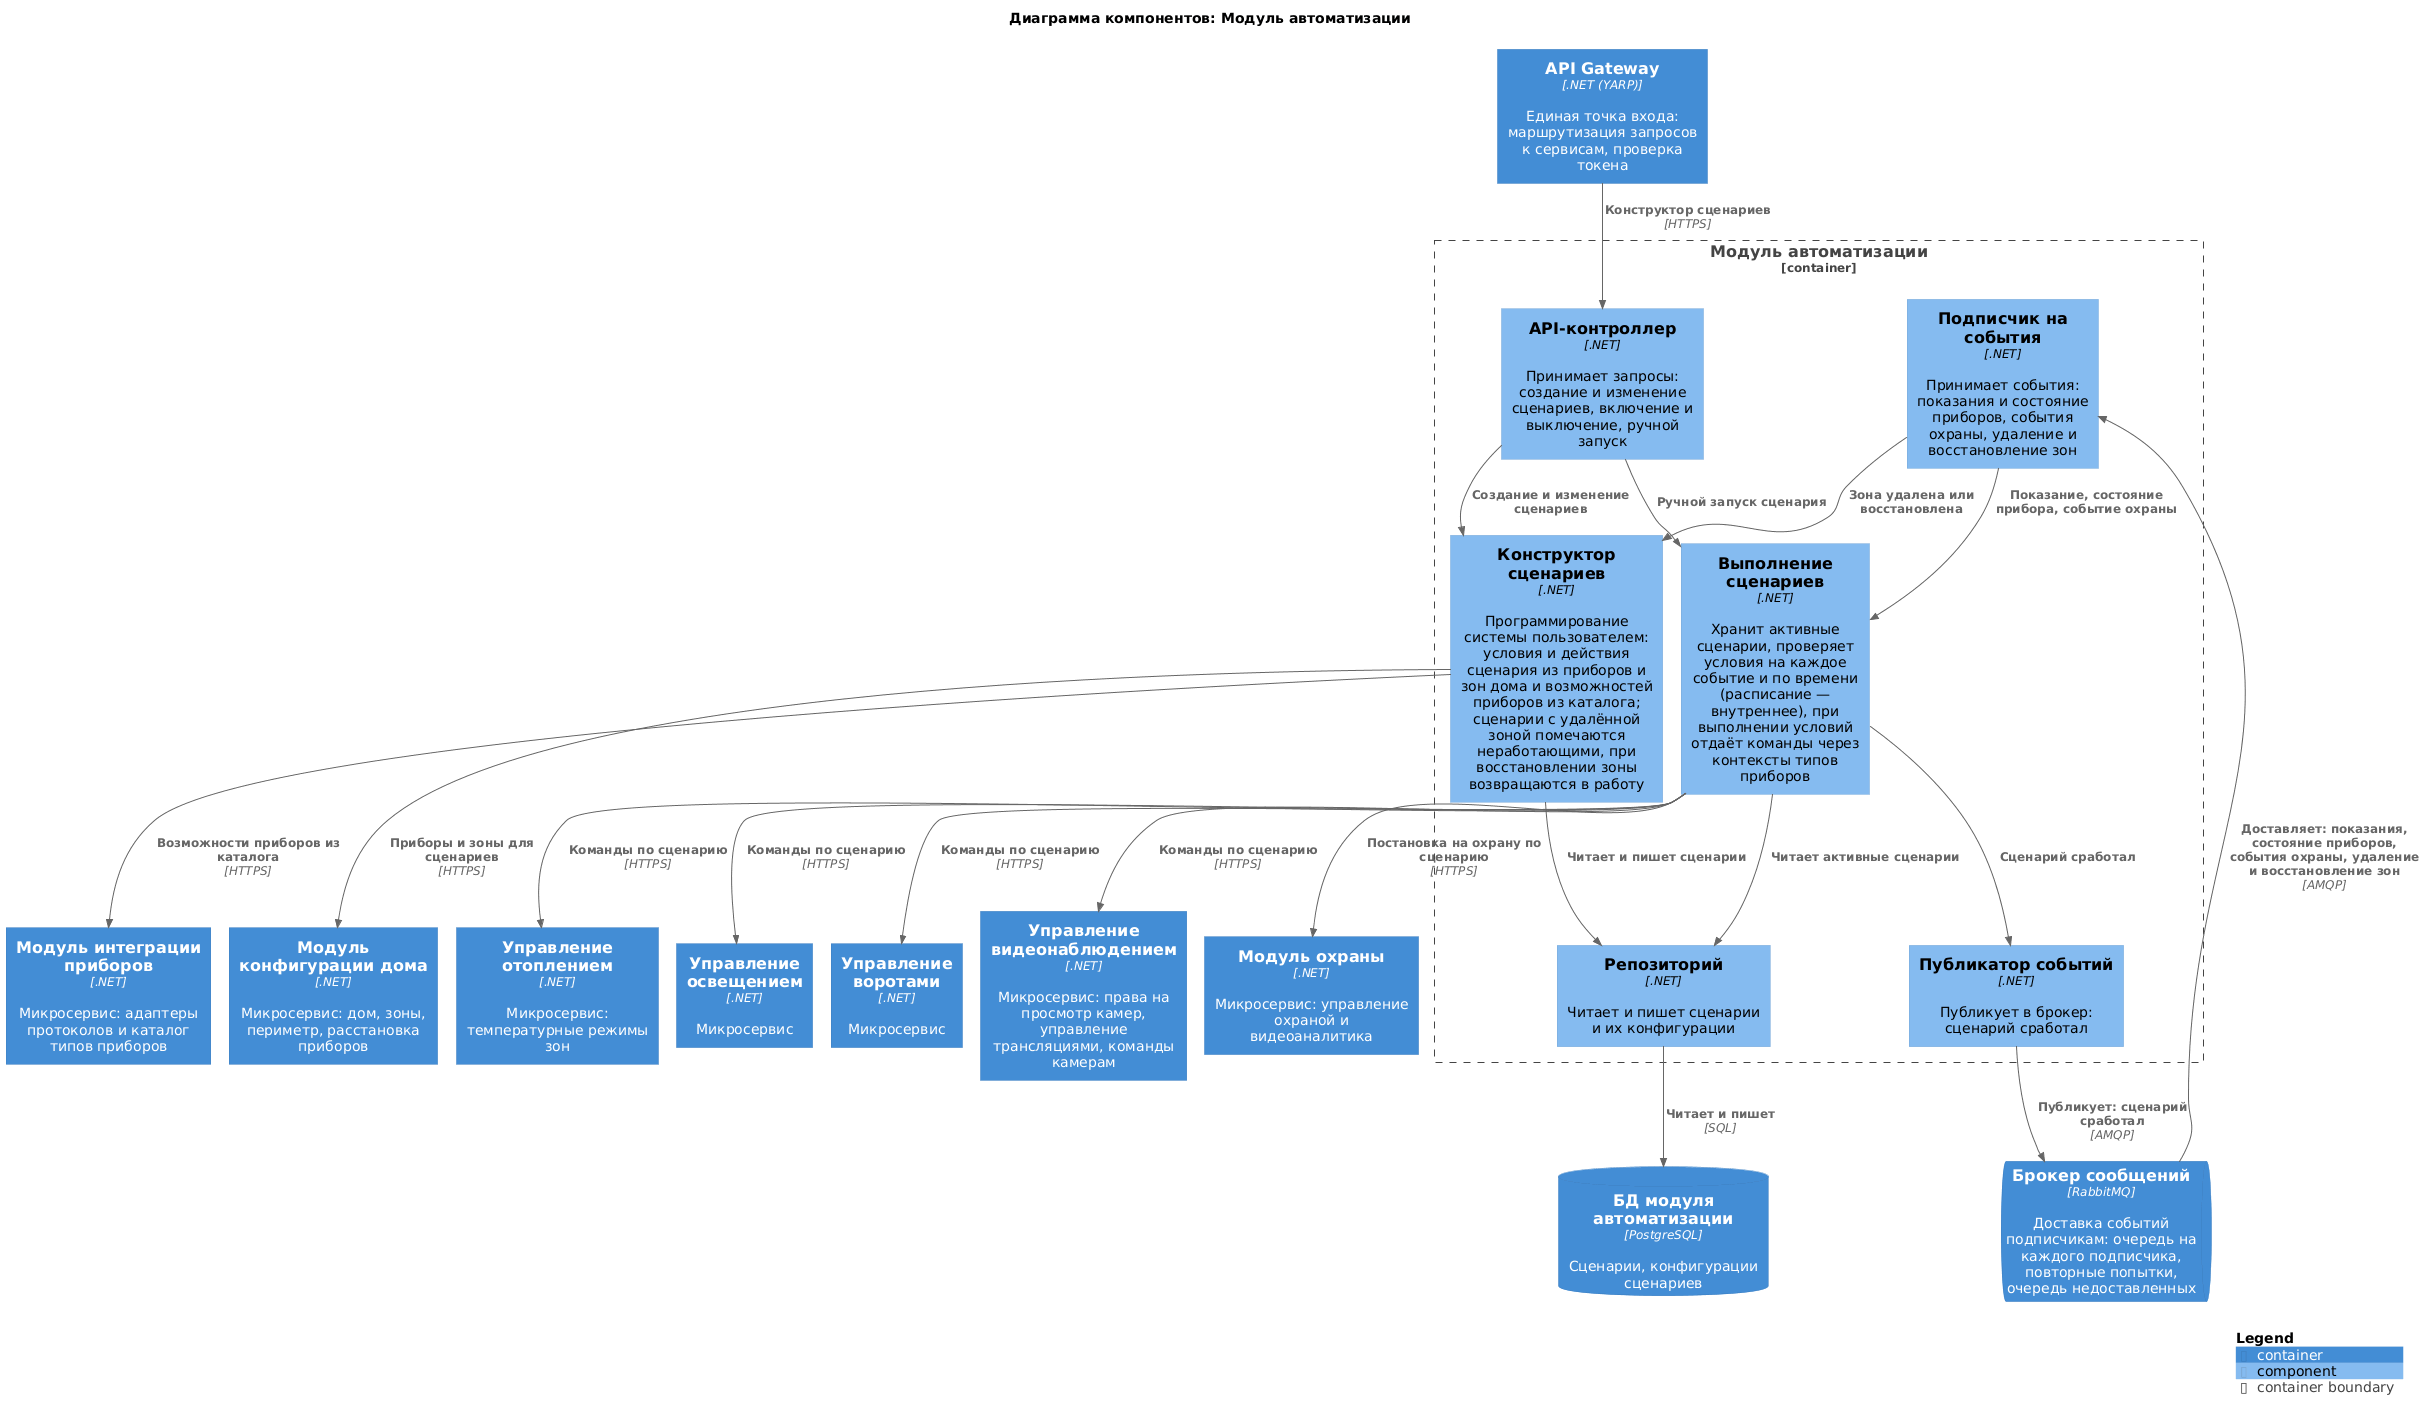
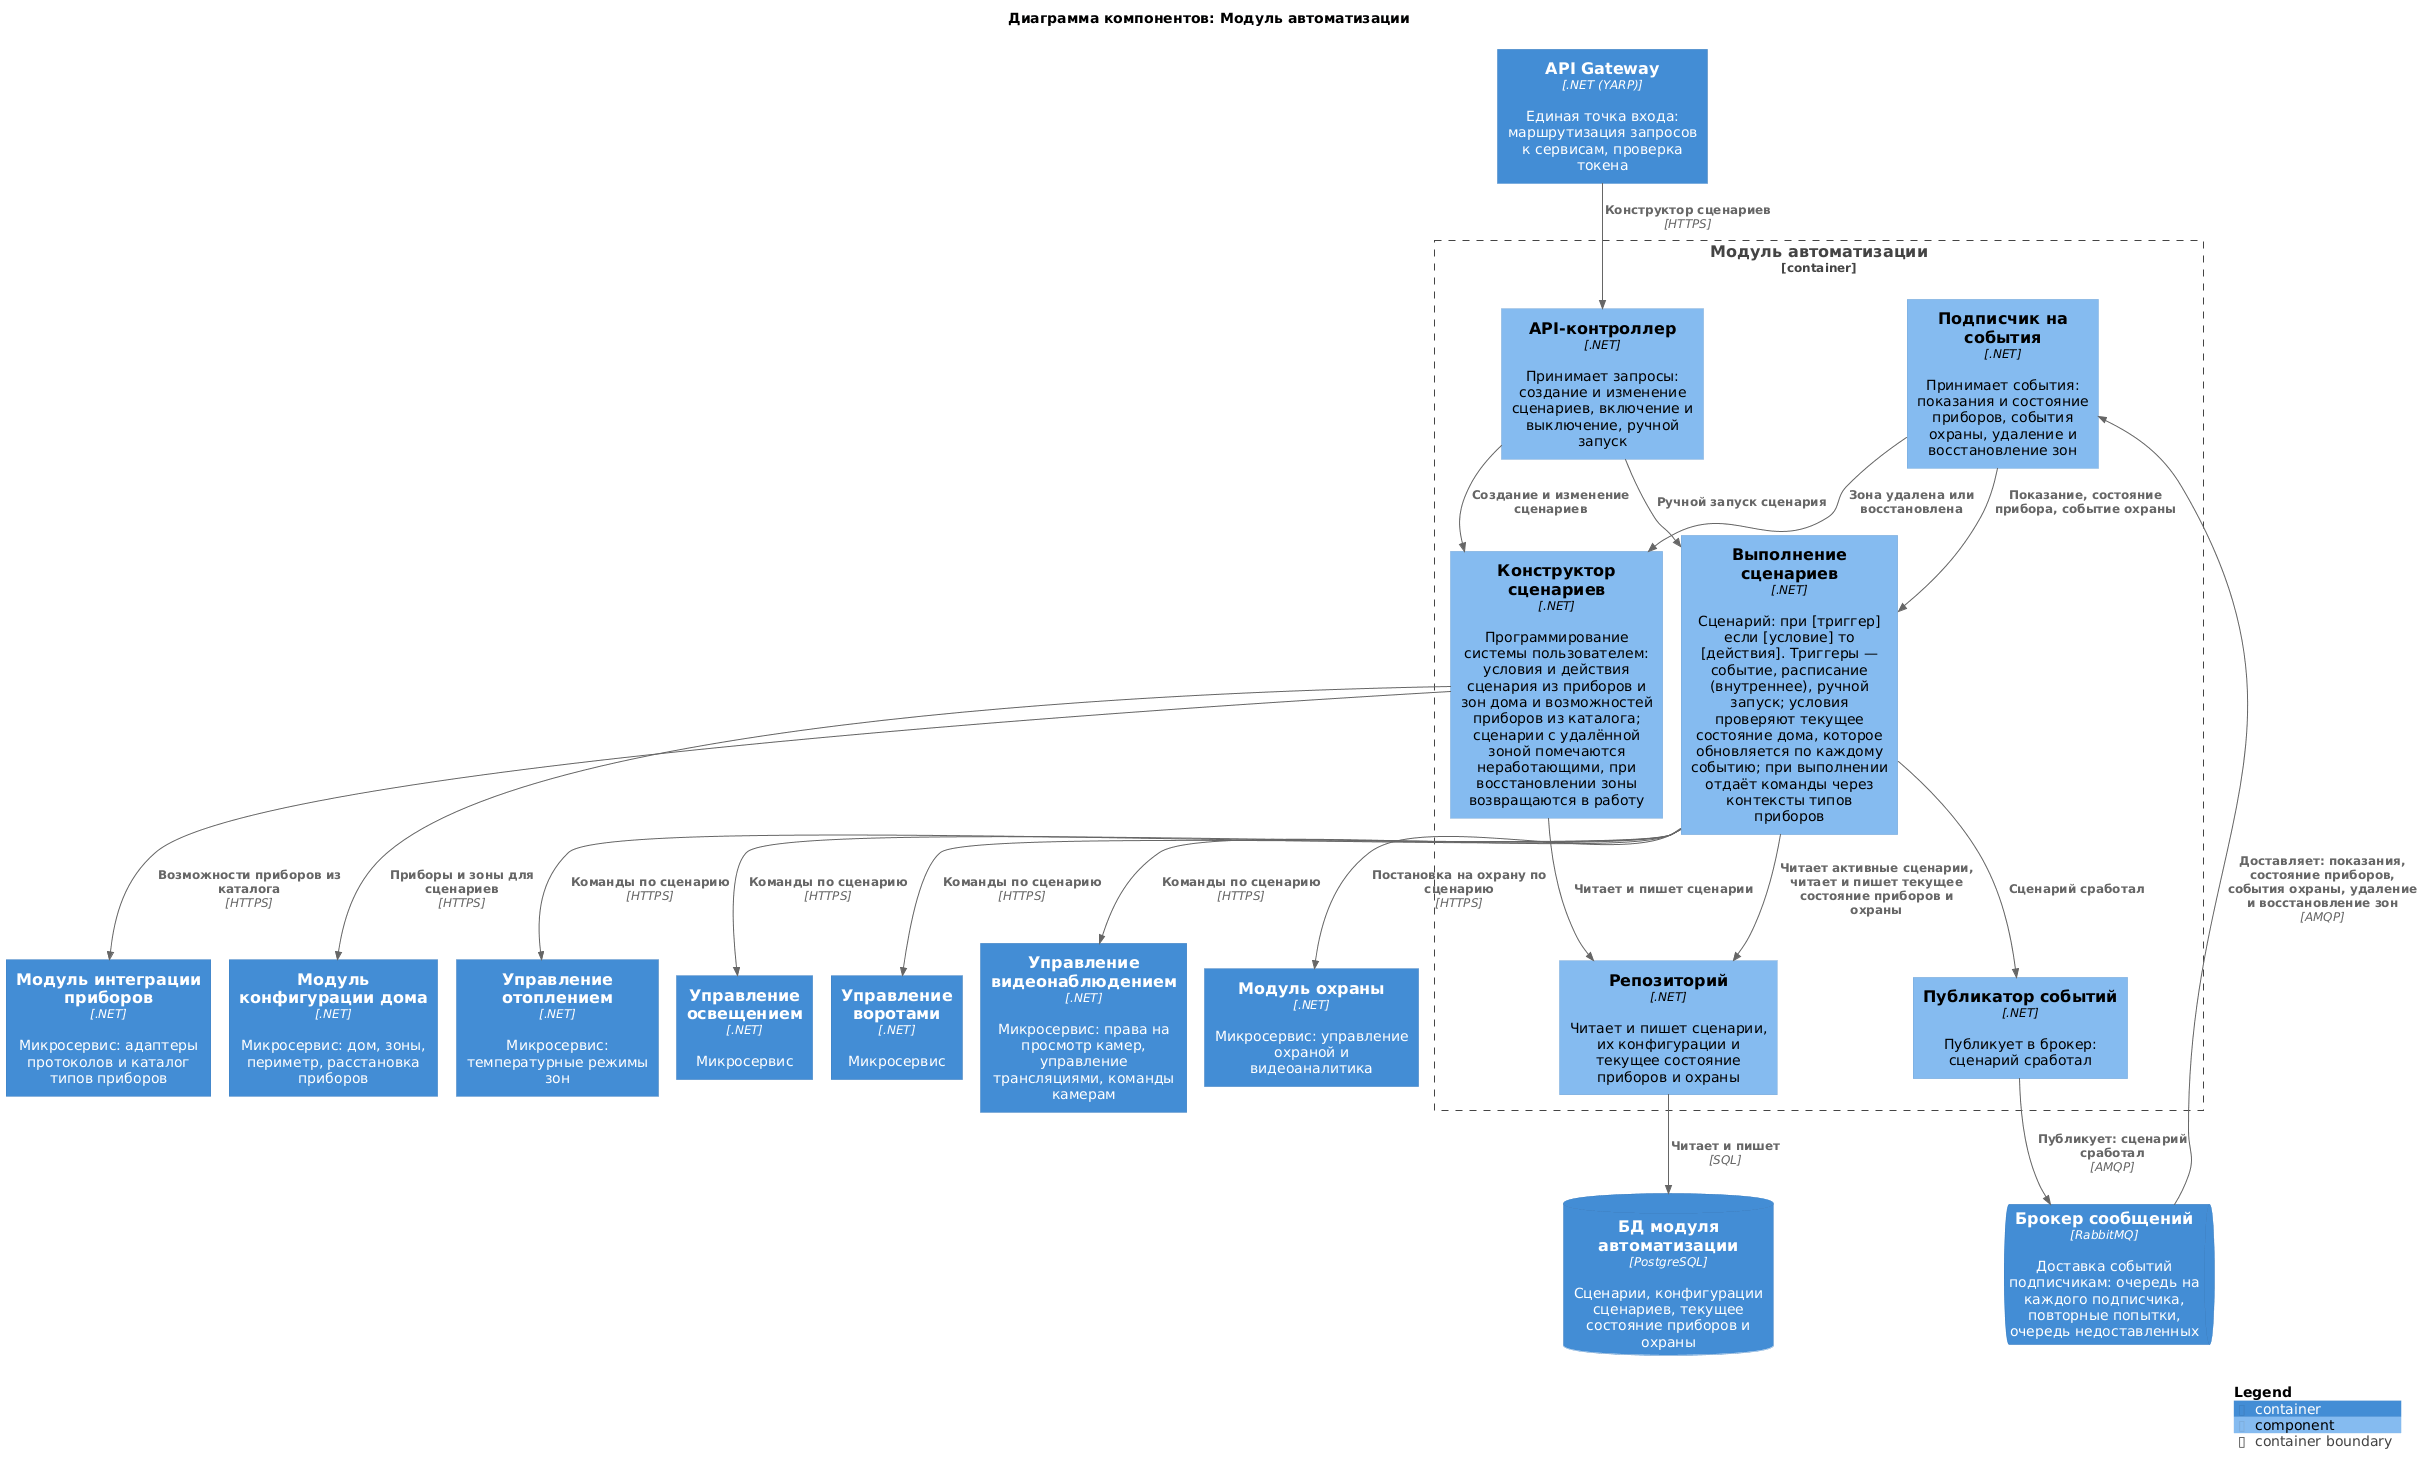
C4: диаграмма кода «Выполнение сценариев» (триггеры, условия по текущему состоянию, действия)

diff --git a/README.md b/README.md
@@ -159,11 +159,19 @@
     - Контекст: Выполнение сценариев (хранит активные сценарии, непрерывно
       проверяет условия и отдаёт команды через контексты типов приборов;
       отделено от конструктора из-за разного характера работы: конструирование
-      редкое, выполнение непрерывное). Условия сценариев:
+      редкое, выполнение непрерывное). Сценарий: при [триггер] если
+      [условие] то [действия].
+      Триггеры — когда проверять сценарий:
         - показания приборов — от «Телеметрии»;
         - состояние приборов — от «Управления приборами»;
         - события охраны (тревога, постановка, снятие) — от «Управления охраной»;
         - время и расписание, ручной запуск пользователем — внутренние.
+      Условия — проверка текущего состояния дома (необязательны,
+      комбинируются через И / ИЛИ): последние показания и состояния
+      приборов, режим охраны, интервал времени; текущее состояние
+      «Выполнение сценариев» хранит само и обновляет по каждому событию.
+      Все триггеры, включая ручной запуск, проходят одинаковую проверку
+      условий.
       Примеры действий: постановка на охрану, отправка уведомления
       (через «Рассылку уведомлений»).
 
@@ -406,7 +414,18 @@
 
 **Диаграмма кода (Code)**
 
-Добавьте одну диаграмму или несколько.
+Компонент «Выполнение сценариев» модуля автоматизации — ядро core-поддомена
+(пользователь сам программирует систему). Сценарий описывается как
+«при [триггер] если [условие] то [действия]»: триггеры (`ITrigger`) — событие,
+расписание, ручной запуск; условия (`ICondition`) проверяют текущее состояние
+дома (`HouseState`) и комбинируются через `ConditionGroup` (паттерн
+«Компоновщик», И / ИЛИ); действия (`IAction`) вызывают контексты типов приборов.
+Новый вид триггера, условия или действия добавляется новым классом без изменения
+остального кода.
+
+![Код: Выполнение сценариев](diagrams/code/scenario-execution.png)
+
+Исходник: [scenario-execution.puml](diagrams/code/scenario-execution.puml)
 
 # Задание 3. Разработка ER-диаграммы
 
